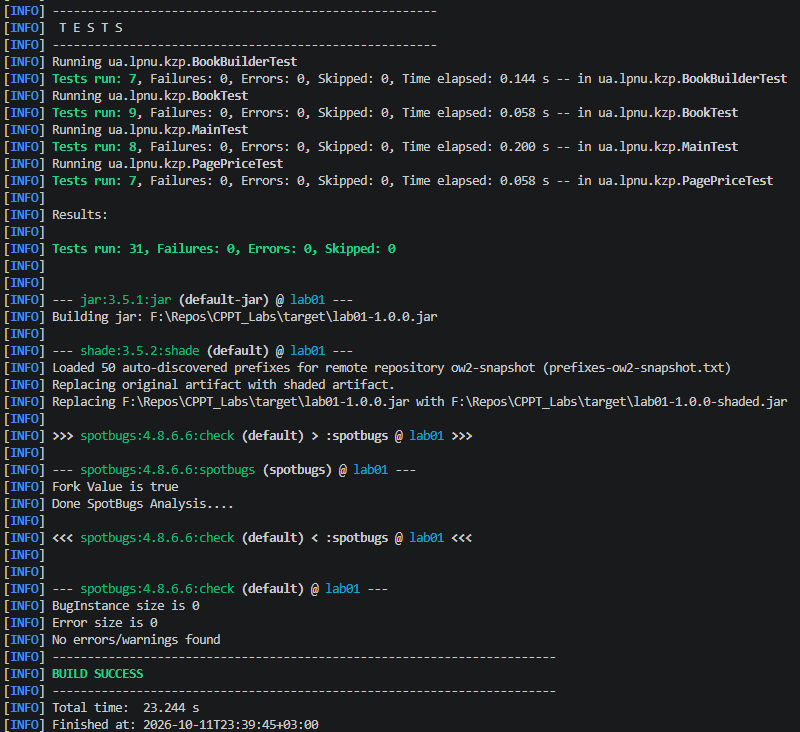
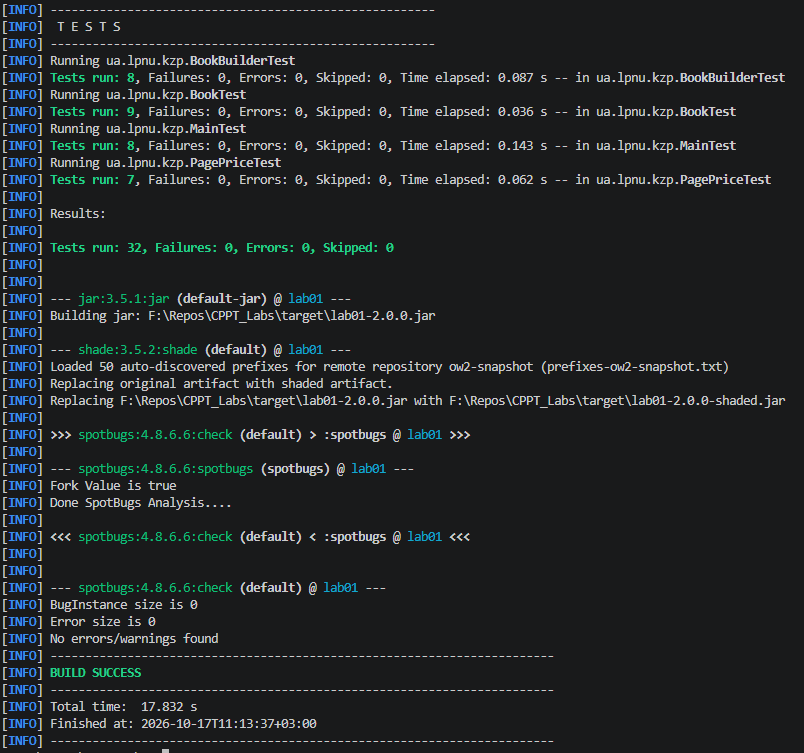
docs: update Lab 2 reports and screenshots for 32 tests

Changed region(s): [[0.0, 0.0, 0.9688, 1.0], [0.7188, 0.0902, 1.0, 0.2705]]

diff --git a/REPORT.md b/REPORT.md
@@ -23,7 +23,7 @@
 - **Мова програмування:** Java 21.
 - **Система збирання:** Maven.
 - **Операційна система локальної розробки:** Windows.
-- **Гілка Git:** `Lab_2`.
+- **Гілка розробки:** `Lab_2`; актуальні зміни об’єднано з `main`.
 
 ## 2. Мета роботи
 
@@ -86,7 +86,7 @@ baseline/report-lab01.txt
 acddcf8 — Lab 2: implement Book, PagePrice, Builder and JUnit tests
 ```
 
-Коміт завантажено до віддаленої гілки `origin/Lab_2`.
+Коміт завантажено до віддаленої гілки `origin/Lab_2`. Після завершення лабораторної зміни об’єднано з `main`, а Issues #4–#7 закрито. Додаткові зауваження до коду виправлено в гілці `fix/lab2-review` (коміт `656e8b7`); відповідний Pull Request #11 також об’єднано з `main`.
 
 **Рисунок 1 — GitHub Issues лабораторної роботи №2.**
 
@@ -161,7 +161,7 @@ Book book = Book.builder()
         .build();
 ```
 
-Метод `build()` викликає конструктор `Book`, тому правила валідації однакові для обох способів створення об'єкта.
+Метод `build()` викликає конструктор `Book`, тому правила валідації однакові для обох способів створення об’єкта. Поле ціни в Builder є обов’язковим: без виклику `.price(...)` метод `build()` генерує `IllegalArgumentException`, тоді як явно задана ціна `0.0` допустима. Це перевірено тестом `testBuilderRejectsMissingPrice()`.
 
 Повторне використання Builder не змінює раніше створених книжок.
 
@@ -282,8 +282,8 @@ Compare-Object (Get-Content .\baseline\report-lab01.txt -Encoding UTF8) (Get-Con
 | `MainTest` | 8 |
 | `BookTest` | 9 |
 | `PagePriceTest` | 7 |
-| `BookBuilderTest` | 7 |
-| **Разом** | **31** |
+| `BookBuilderTest` | 8 |
+| **Разом** | **32** |
 
 Тести охоплюють:
 
@@ -308,13 +308,13 @@ Compare-Object (Get-Content .\baseline\report-lab01.txt -Encoding UTF8) (Get-Con
 Отриманий результат:
 
 ```text
-Tests run: 31, Failures: 0, Errors: 0, Skipped: 0
+Tests run: 32, Failures: 0, Errors: 0, Skipped: 0
 BUILD SUCCESS
 ```
 
-**Рисунок 6 — Результат виконання 31 JUnit-тесту.**
+**Рисунок 6 — Результат виконання JUnit-тестів (знімок екрана до додавання 32-го тесту).**
 
-![Результати 31 JUnit-тесту](docs/lab2/06-junit-tests.png)
+![Результати попереднього запуску JUnit-тестів](docs/lab2/06-junit-tests.png)
 
 ## 9. Статичний аналіз SpotBugs
 
@@ -329,7 +329,7 @@ BUILD SUCCESS
 Під час виконання Maven:
 
 1. Скомпілював Java-код.
-2. Запустив 31 JUnit-тест.
+2. Запустив 32 JUnit-тести (після додавання тесту відсутньої ціни в Builder).
 3. Створив JAR-файл.
 4. Виконав Maven Shade Plugin.
 5. Запустив SpotBugs.
@@ -371,13 +371,19 @@ java -jar .\target\lab01-2.0.0-shaded.jar --input .\data\input.csv --output .\ou
 
 Назва артефакту `lab01` залишена для сумісності з наявною конфігурацією Maven-проєкту.
 
+## 10.1. Автоматична перевірка GitHub Actions CI
+
+У файлі `.github/workflows/ci.yml` налаштовано автоматичну перевірку для `push` і Pull Request до гілки `main`.
+
+CI виконує Maven Wrapper `verify` з Java 21 (Temurin) на Ubuntu, Windows і macOS. Під час перевірки запускаються JUnit-тести, збірка JAR і SpotBugs. Номер запуску GitHub Actions передається у властивість Maven `buildNumber`, а зібрані JAR-файли зберігаються як артефакти workflow.
+
 ## 11. Документація та академічна доброчесність
 
 Для документування проєкту використовуються:
 
 - `README.md` — опис проєкту та інструкції із запуску;
-- `REPORT.md` — звіт лабораторної роботи №1;
-- `REPORT_LAB2.md` — звіт лабораторної роботи №2;
+- `REPORT.md` — звіт лабораторної роботи №2 у поточній гілці;
+- звіт лабораторної роботи №1 — у гілці `Lab_1`;
 - Javadoc-коментарі у вихідному коді.
 
 Під час виконання лабораторної роботи використовувався ChatGPT як допоміжний інструмент для пояснення команд Git і Maven, аналізу помилок, підготовки варіантів реалізації, тестових сценаріїв та документації.
@@ -394,6 +400,6 @@ java -jar .\target\lab01-2.0.0-shaded.jar --input .\data\input.csv --output .\ou
 
 Збережено сумісність результатів програми з лабораторною роботою №1 для контрольного набору даних.
 
-Успішно виконано **31 JUnit-тест**, а статичний аналіз SpotBugs завершився без зауважень. Повна збірка `clean verify` отримала статус **BUILD SUCCESS**.
+Успішно виконано **32 JUnit-тести**, а статичний аналіз SpotBugs завершився без зауважень. Повна збірка `clean verify` отримала статус **BUILD SUCCESS**.
 
-Результати реалізації збережено в Git-гілці `Lab_2` і завантажено на GitHub.
+Результати реалізації збережено в Git-гілці `Lab_2`, завантажено на GitHub та об’єднано з `main`. Додаткові виправлення об’єднано через Pull Request #11.

diff --git a/README.md b/README.md
@@ -16,7 +16,7 @@
 
 У лабораторній роботі №2 виконано рефакторинг із використанням окремих класів, Java `record`, шаблону Builder, розширено тестування та виправлено зауваження до лабораторної №1.
 
-Розробка лабораторної №2 виконується в окремій Git-гілці `Lab_2`. Початковий стан лабораторної №1 збережено в гілці `Lab_1`.
+Розробку лабораторної №2 виконано в гілці `Lab_2`, після чого зміни об’єднано з `main`. Початковий стан лабораторної №1 збережено в гілці `Lab_1`. Додаткові виправлення після перевірки коду виконано в гілці `fix/lab2-review` (коміт `656e8b7`) та об’єднано через Pull Request #11. Завдання GitHub Issues #4–#7 закриті.
 
 ## 2. Формат вхідних даних
 
@@ -127,7 +127,7 @@ Book book = Book.builder()
         .build();
 ```
 
-Перевірка даних виконується конструктором `Book` під час виклику `build()`.
+Перевірка даних виконується конструктором `Book` під час виклику `build()`. Ціну необхідно явно задати методом `.price(...)`: якщо її не вказано, `build()` генерує `IllegalArgumentException`. При цьому явно задана ціна `0.0` дозволена. Поведінку перевіряє тест `testBuilderRejectsMissingPrice()`.
 
 Повторне використання Builder не змінює раніше створених об'єктів.
 
@@ -285,8 +285,8 @@ baseline/report-lab01.txt
 | `MainTest` | 8 |
 | `BookTest` | 9 |
 | `PagePriceTest` | 7 |
-| `BookBuilderTest` | 7 |
-| **Разом** | **31** |
+| `BookBuilderTest` | 8 |
+| **Разом** | **32** |
 
 Перевіряються:
 
@@ -300,12 +300,13 @@ baseline/report-lab01.txt
 - перевірка інваріантів `Book` і `PagePrice`;
 - `equals()`, `hashCode()` та `toString()` для record;
 - створення об'єктів через Builder;
-- незалежність створених Builder об'єктів.
+- незалежність створених Builder об'єктів;
+- відхилення відсутньої ціни в Builder за допустимості явно заданої ціни `0.0`.
 
 Підтверджений результат:
 
 ```text
-Tests run: 31, Failures: 0, Errors: 0, Skipped: 0
+Tests run: 32, Failures: 0, Errors: 0, Skipped: 0
 BUILD SUCCESS
 ```
 
@@ -333,13 +334,15 @@ BUILD SUCCESS
 ```text
 src/
 ├── main/
-│   └── java/
-│       └── ua/
-│           └── lpnu/
-│               └── kzp/
-│                   ├── Main.java
-│                   ├── Book.java
-│                   └── PagePrice.java
+│   ├── java/
+│   │   └── ua/
+│   │       └── lpnu/
+│   │           └── kzp/
+│   │               ├── Main.java
+│   │               ├── Book.java
+│   │               └── PagePrice.java
+│   └── resources/
+│       └── version.properties
 └── test/
     └── java/
         └── ua/
@@ -367,4 +370,7 @@ src/
 - `Locale.ROOT` для числового форматування;
 - `System.lineSeparator()` для платформонезалежних переносів рядків;
 - Javadoc;
-- Git-гілки для окремих лабораторних робіт.
+- Git-гілки для окремих лабораторних робіт;
+- GitHub Actions CI: перевірка `verify` на Ubuntu, Windows і macOS для `push` і Pull Request до `main`;
+- збереження JAR-артефактів кожної CI-збірки;
+- Maven-фільтрація `version.properties` для версії та номера збірки.
